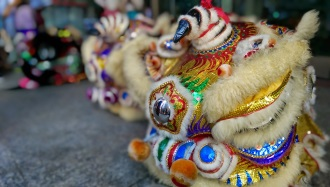
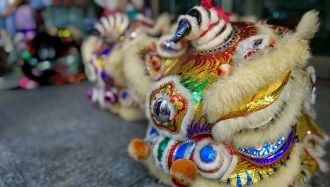
compressed images for better loadtimes
images compressed on compressor.io in lossy algorithm.
also better responsiveness from other projects page

diff --git a/views/other.html b/views/other.html
@@ -9,10 +9,10 @@
     
             <!-- the garbage collector -->
             <div class="row project-container">
-                <div class="project-img col-xs-3">
+                <div class="project-img col-xs-3 col-md-3 col-lg-2">
                     <img src="/static/image/projectPreview/gcTitleScreen.png">
                 </div>
-                <div class="project-text col-xs-9">
+                <div class="project-text col-xs-9 col-md-9 col-lg-10">
                     <div class="project-title">The Garbage Collector (Unity, C#)</div>
                     <div class="project-description">This was a fun project done in 48 hours with some friends. It was part of the Indie Speed Run in 2012. In a 4-person team, I worked mostly on particle effects and enemy ship behavior.</div>
                     <div class="project-link"><a target="_newtab" href="http://thegarbagecollector.com/">Link</a></div>
@@ -21,10 +21,10 @@
             
             <!-- three.js test -->
             <div class="row project-container">
-                <div class="project-img col-xs-3">
+                <div class="project-img col-xs-3 col-md-3 col-lg-2">
                     <img src="/static/image/projectPreview/threejsPreview.png">
                 </div>
-                <div class="project-text col-xs-9">
+                <div class="project-text col-xs-9 col-md-9 col-lg-10">
                     <div class="project-title">Three.js Sampler (JavaScript, WebGL)</div>
                     <div class="project-description">Took the time to look into Three.js. It's a great (and easy) way to get into WebGL if you don't want to deal with the lower level intricacies. Here is a scene with a reflective sphere and a helix of spheres around it. I also had the chance to look into mouse controls for it, so you can click and drag (or touch!) the scene. You can even zoom in and out.</div>
                     <div class="project-link"><a target="_newtab" href="../static/projects/threesTest.html">Link</a></div>
